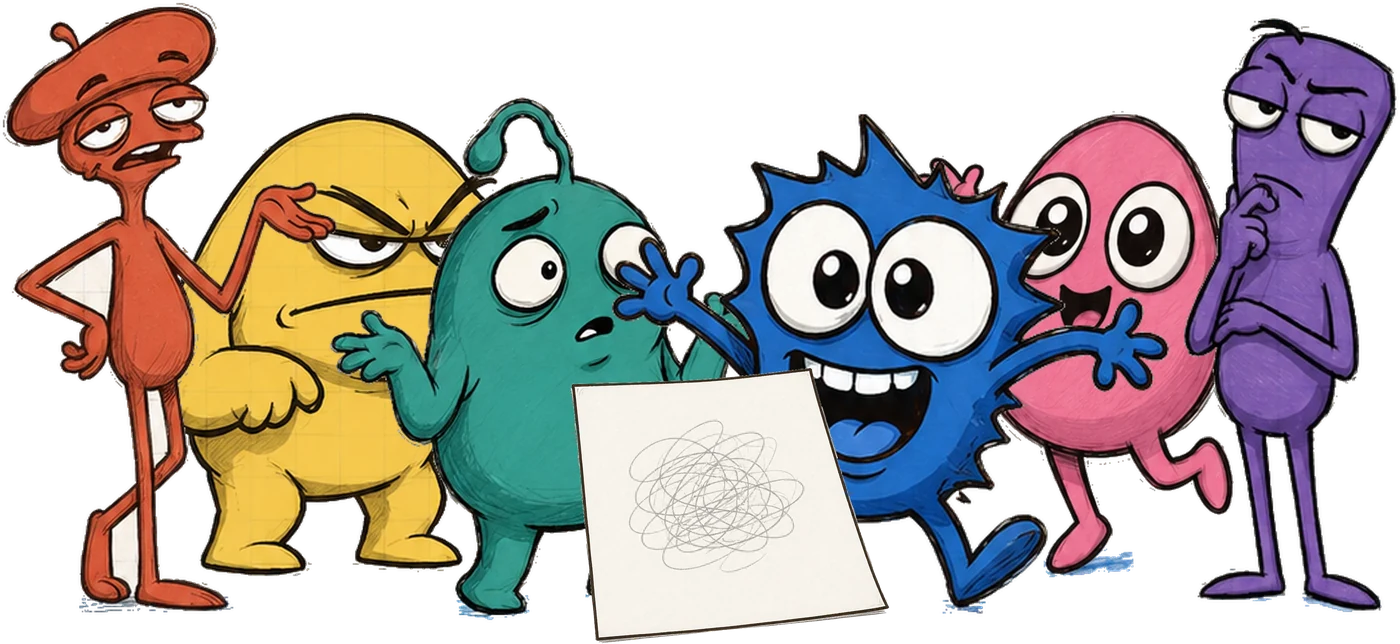
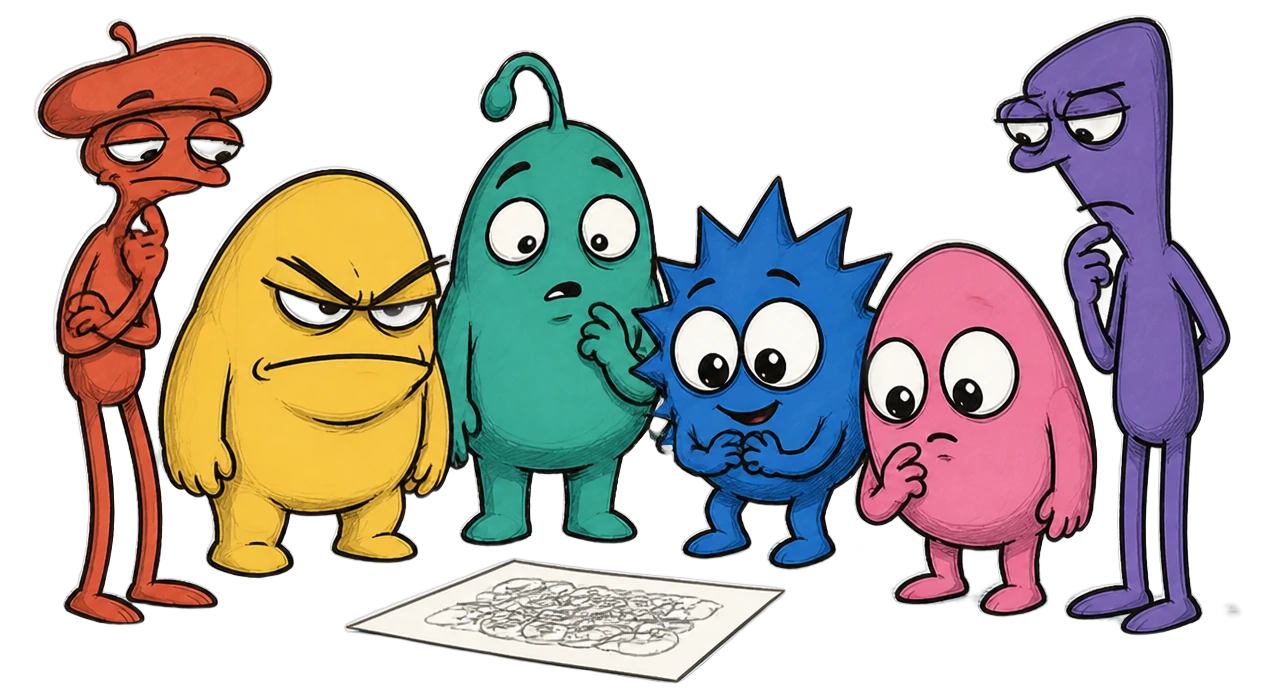
Regenerate the hero as one Higgsfield illustration instead of a composite
The composited hero (Batch 9) read as pasted-together: each cutout carried its
own lighting and ground shadow, with no shared light source and no natural
overlap between characters. Requested explicitly: regenerate it with
Higgsfield and make it better.

Composing was still the right call for the mode scenes — a generated scene
there would put the once-rejected characters back on screen. The hero is
different: the owner's own characters are the approved design now, so a
single gpt_image_2 generation referencing all six as image inputs can draw
them interacting in one pass, with one light source and one shadow, which no
amount of pasting cutouts together produces.

Getting a correct result took two fixes. Passing the full 3x3 pose sheets as
references caused the model to read a sheet's own costume pose as a second
character — one generation dropped الفنان entirely, another duplicated الناقد.
Switching to the single-pose _default_idle cutouts (already produced by
Batch 8) as references fixed it outright. The prompt also names each
character's colour and one identifying feature and says explicitly not to
invent or omit one, as cheap insurance alongside that fix.

diff --git a/src/assets/registry.ts b/src/assets/registry.ts
@@ -349,8 +349,8 @@ export const assetRegistry: Readonly<Record<AssetId, AssetEntry>> = {
   hero_home_confused_group: {
     src: heroHome,
     alt: 'الشخصيات مجتمعة حول رسمة غريبة تحاول فهمها',
-    width: 1400,
-    height: 644,
+    width: 1262,
+    height: 698,
   },
   mode_scene_mozawwer: {
     src: sceneMozawwer,

diff --git a/ASSET_MANIFEST.md b/ASSET_MANIFEST.md
@@ -395,6 +395,53 @@ field where no brightness threshold could):
 - **Batch 7 is now fully superseded** for character-bearing assets. Its
   `logo_wordmark` and `app_icon` still stand — neither shows a character.
 
+## Batch 10 — Hero regenerated as one Higgsfield illustration (current direction)
+
+Batch 9's `hero_home_confused_group` was a composite of six separate pose
+cutouts pasted onto one canvas. It read as pasted-together — each figure's own
+lighting and ground shadow, no shared light source, no natural overlap where
+one character leans into another. Requested explicitly: regenerate it with
+Higgsfield and make it better.
+
+Composing was the right call for the mode scenes (Batch 9's reasoning still
+holds: a generated scene would put the once-rejected characters back on
+screen). The hero is different — by now the OWNER'S OWN characters are the
+approved design, so a single Higgsfield illustration referencing all six as
+image inputs draws them interacting naturally in one pass, with one light
+source and one shadow, which no amount of compositing individual cutouts can
+produce.
+
+Two things mattered for a correct result with `gpt_image_2`:
+
+- **Reference images must be single-pose, not the full 3x3 sheet.** An early
+  attempt passed the raw character sheets (nine poses each, including a
+  costumed variant) as references, and the model read the sheet's own
+  costume pose as a second character — one generation dropped الفنان
+  entirely, another duplicated الناقد once with his scarf and once without.
+  Switching to the plain `_default_idle` cutout per character (already
+  produced by Batch 8) as the reference fixed it: six references in, exactly
+  six characters out, on both attempts.
+- **The prompt named each character's colour and one identifying feature**
+  (the beret, the antenna, the spikes) and said explicitly not to invent or
+  omit one. Belt-and-suspenders alongside the single-pose fix above, but it
+  is cheap insurance against exactly the failure mode above.
+
+Background removed with `remove_background`, trimmed to content with an
+8px margin.
+
+| id | size | file |
+|---|---|---|
+| `hero_home_confused_group` | 1262×698 | `src/assets/generated/hero_home_confused_group.webp` |
+
+**Batch 10 notes.**
+
+- Regenerating is a manual step, not something `build-scene.py` does — there
+  is no script here, just the prompt above and the six Batch 8 idle cutouts as
+  reference. Re-run by hand if the hero needs revisiting again.
+- The splash backdrop and the five mode scenes are still Batch 9 composites.
+  They were not requested to change, but the same one-shot-generation approach
+  would likely improve them the same way if that's ever wanted.
+
 ## Batch 5 — Functional icons
 
 Only generated once the tool UI is settled. Until then the drawing tools use
